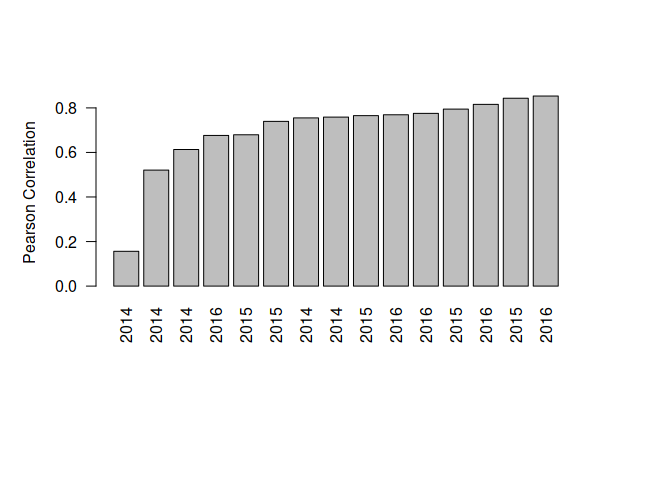
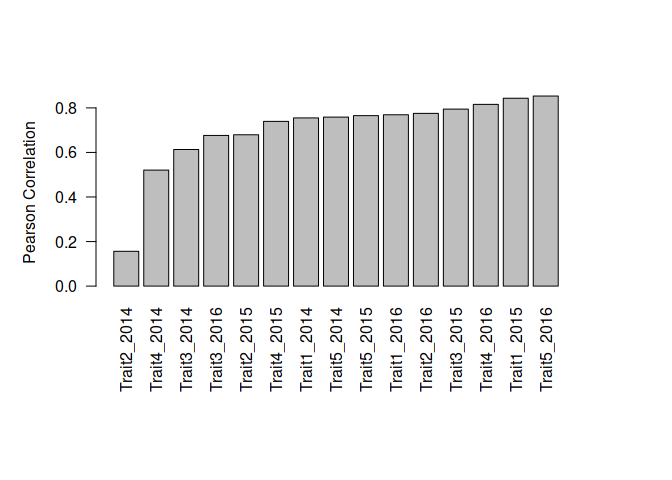
Update readme file

Changed region(s): [[0.1562, 0.7188, 0.6875, 0.8125], [0.7188, 0.7188, 0.8438, 0.8125]]

diff --git a/README.md b/README.md
@@ -14,7 +14,7 @@ Development version 1.6.0.
 
 <h4 align="center">
 
-\[Last README update: 2019-03-17\]
+\[Last README update: 2019-03-22\]
 
 </h4>
 
@@ -74,6 +74,7 @@ News of this version (1.6.0)
 
   - Fixed important issue with the predictions output.
   - Fixed compatibility with dplyr 0.8.
+  - Fixed barplot function.
 
 See the last updates in [NEWS](NEWS.md).
 
@@ -195,7 +196,7 @@ pm
 
     ## Item Based Collaborative Filtering Model: 
     ##  Fitted with  10  random partitions
-    ##  Runtime:  12.355  seconds 
+    ##  Runtime:  12.408  seconds 
     ## 
     ##  Some predicted values: 
     ##  [1]  -0.9554  -0.2731  -0.5007  -0.0909  -0.0501  -0.2599  -0.3494

diff --git a/NEWS.md b/NEWS.md
@@ -3,6 +3,7 @@ IBCF.MTME v1.6 (Release data: 2019-03-17)
 
 * Fixed important issue with the predictions output.
 * Fixed compatibility with dplyr 0.8.
+* Fixed barplot function.
 
 IBCF.MTME v1.5 (Release date: 2018-11-22)
 ==============
